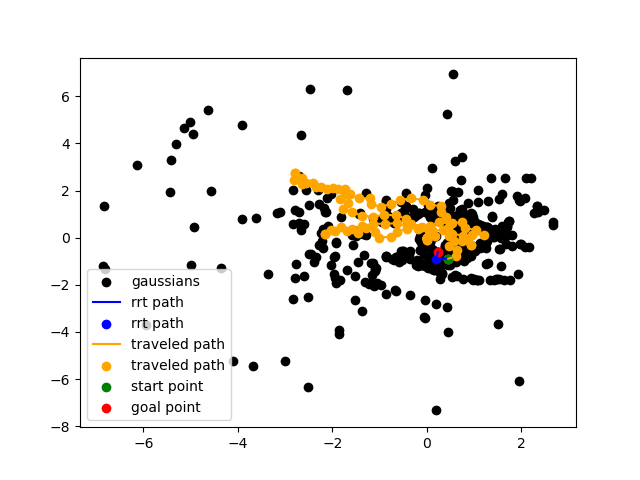
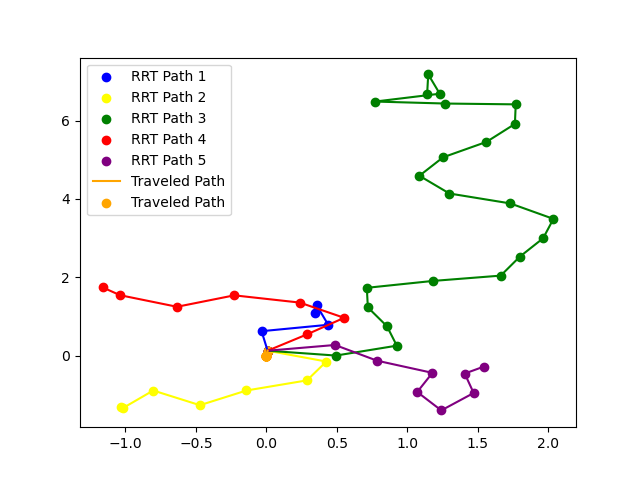
Adding changes to results

diff --git a/pipeline.py b/pipeline.py
@@ -707,9 +707,8 @@ class ActiveGaussSplatMapper:
         torch.cuda.empty_cache()
         return average_gain, H_sum
 
-    def vis_traj(self, trajs):
+    def vis_traj(self, trajs, inds, num=0):
         points = np.array(self.quad_traj)[:, :3]
-        matplotlib.use("agg")
         plt.figure()
         # gaussians = self.gaussModel.get_xyz.T.detach().cpu().numpy()
         # gaussians = (gaussians.T)[np.abs(gaussians[1]) < 0.25]
@@ -720,30 +719,31 @@ class ActiveGaussSplatMapper:
         # map = self.sim.sim.pathfinder.get_topdown_view(meters_per_pix, height)
         # plt.imshow(map)
         colors = ["blue", "yellow", "green", "red", "purple"]
-        for i, traj in enumerate(trajs):
+        count = 0
+        for ind in inds:
             # traj_points = self.sim.convert_points_to_topdown(
             #     traj[:, :3], meters_per_pix
             # )
-            traj_points = traj
+            traj_points = trajs[ind]
             plt.plot(
                 traj_points[:, 0],
-                traj_points[:, 1],
-                c=colors[i],
-                label="RRT Path " + str(i + 1),
+                traj_points[:, 2],
+                c=colors[count],
             )
             plt.scatter(
                 traj_points[:, 0],
-                traj_points[:, 1],
-                c=colors[i],
-                label="RRT Path " + str(i + 1),
+                traj_points[:, 2],
+                c=colors[count],
+                label="RRT Path " + str(count + 1),
             )
+            count += 1
             # plt.scatter(traj[0, 0], traj[0, 2], c="green", label="start point")
             # plt.scatter(traj[-1, 0], traj[-1, 2], c="red", label="goal point")
         plt.plot(points[:, 0], points[:, 2], c="orange", label="Traveled Path")
         plt.scatter(points[:, 0], points[:, 2], c="orange", label="Traveled Path")
 
         plt.legend()
-        plt.savefig(self.save_path + "/traj.png")
+        plt.savefig(self.save_path + "/traj" + str(num) + ".png")
         plt.close()
 
     def planning(self, training_steps_per_step):
@@ -810,7 +810,7 @@ class ActiveGaussSplatMapper:
             for i in range(num_samples):
                 rrt = RapidlyExploringRandomTreePlanner(
                     self.gaussModel,
-                    move_distance=0.25,  # how far to move in direction of sampled point
+                    move_distance=0.5,  # how far to move in direction of sampled point
                     k=2,  # number of Gaussians
                     z=0.0,  # height of planning [m]
                     num_points_to_check=10,  # number of points to check for collision
@@ -847,27 +847,29 @@ class ActiveGaussSplatMapper:
                 H_sums.append(H_sum)
                 gains.append(info_gain_val.cpu())
 
-                del info_gain_val, traj
-                torch.cuda.empty_cache()
+                # del info_gain_val, traj
+                # torch.cuda.empty_cache()
 
-                print(
-                    "torch.cuda.memory_allocated: %fGB"
-                    % (torch.cuda.memory_allocated(0) / 1024 / 1024 / 1024)
-                )
-                print(
-                    "torch.cuda.memory_reserved: %fGB"
-                    % (torch.cuda.memory_reserved(0) / 1024 / 1024 / 1024)
-                )
-                print(
-                    "torch.cuda.max_memory_reserved: %fGB"
-                    % (torch.cuda.max_memory_reserved(0) / 1024 / 1024 / 1024)
-                )
+                # print(
+                #     "torch.cuda.memory_allocated: %fGB"
+                #     % (torch.cuda.memory_allocated(0) / 1024 / 1024 / 1024)
+                # )
+                # print(
+                #     "torch.cuda.memory_reserved: %fGB"
+                #     % (torch.cuda.memory_reserved(0) / 1024 / 1024 / 1024)
+                # )
+                # print(
+                #     "torch.cuda.max_memory_reserved: %fGB"
+                #     % (torch.cuda.max_memory_reserved(0) / 1024 / 1024 / 1024)
+                # )
 
             best_index = np.argmax(np.array(gains))
             print(copy_traj[best_index].shape)
-            if step == 5:
-                best_sort_inds = (np.argsort(gains)[::-1])[:5]
-                self.vis_traj(copy_traj[best_sort_inds])
+            # if step == 5:
+            best_sort_inds = (np.argsort(np.array(gains))[::-1])[:5]
+            print(best_sort_inds)
+            print(gains)
+            self.vis_traj(copy_traj, best_sort_inds, num=step)
 
             self.running_hessian += H_sums[best_index].to(self.device)
 
@@ -894,18 +896,18 @@ class ActiveGaussSplatMapper:
 
             print("plan finished at: " + str(self.current_pose))
 
-            print(
-                "torch.cuda.memory_allocated: %fGB"
-                % (torch.cuda.memory_allocated(0) / 1024 / 1024 / 1024)
-            )
-            print(
-                "torch.cuda.memory_reserved: %fGB"
-                % (torch.cuda.memory_reserved(0) / 1024 / 1024 / 1024)
-            )
-            print(
-                "torch.cuda.max_memory_reserved: %fGB"
-                % (torch.cuda.max_memory_reserved(0) / 1024 / 1024 / 1024)
-            )
+            # print(
+            #     "torch.cuda.memory_allocated: %fGB"
+            #     % (torch.cuda.memory_allocated(0) / 1024 / 1024 / 1024)
+            # )
+            # print(
+            #     "torch.cuda.memory_reserved: %fGB"
+            #     % (torch.cuda.memory_reserved(0) / 1024 / 1024 / 1024)
+            # )
+            # print(
+            #     "torch.cuda.max_memory_reserved: %fGB"
+            #     % (torch.cuda.max_memory_reserved(0) / 1024 / 1024 / 1024)
+            # )
 
             self.gauss_training(steps=training_steps_per_step)
 
